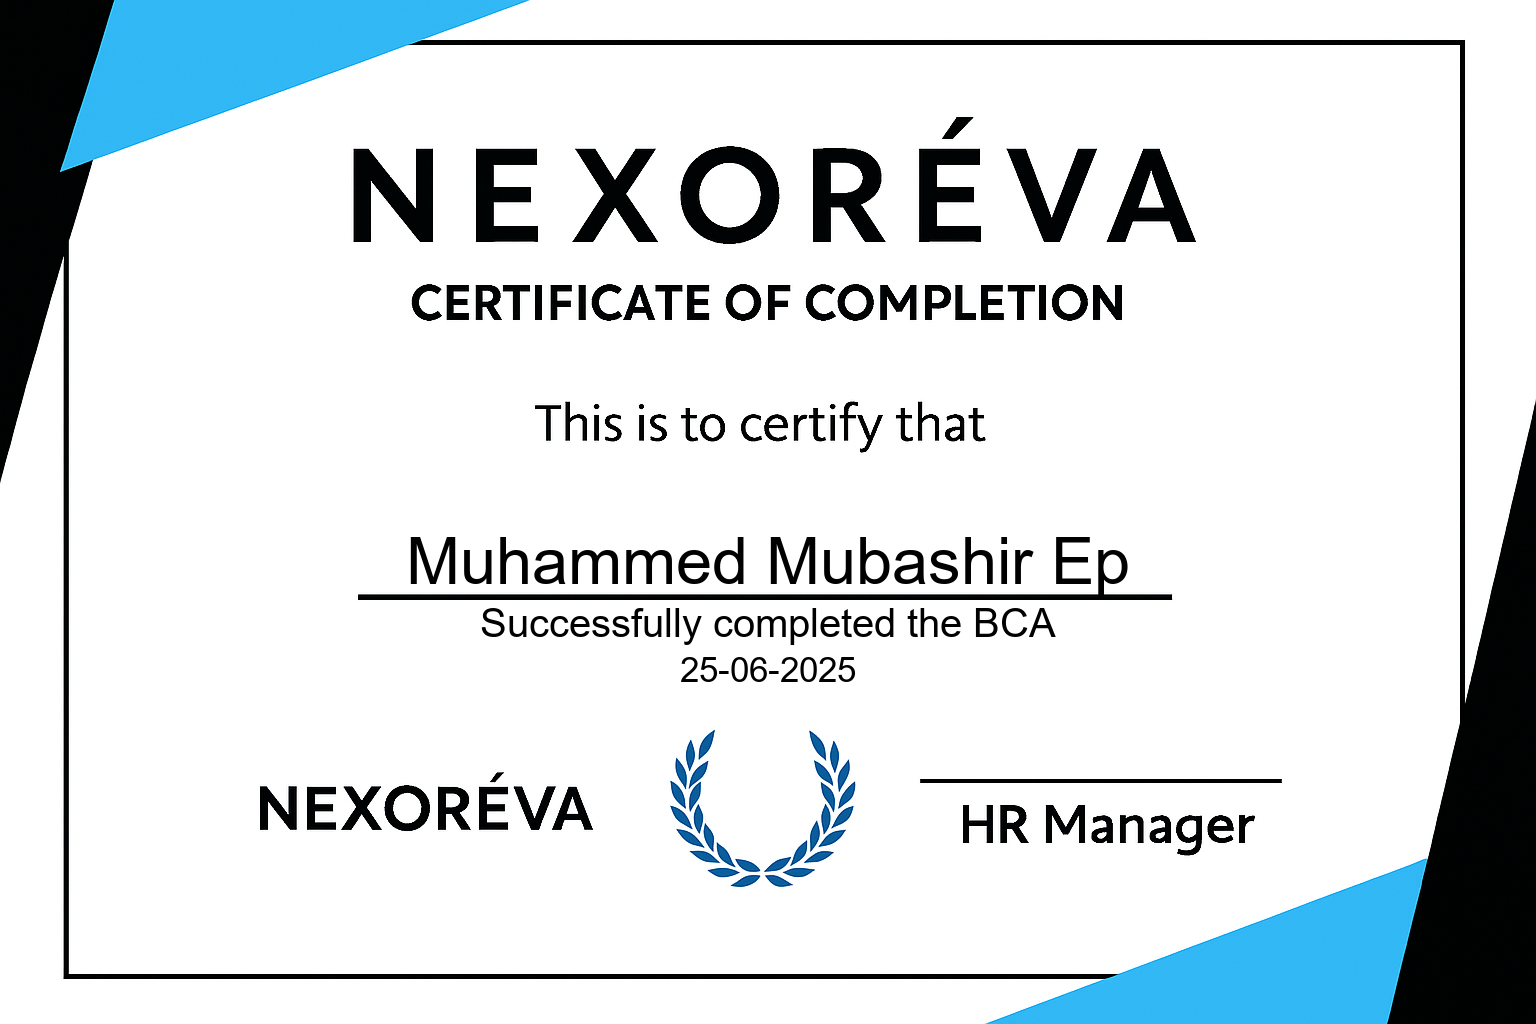
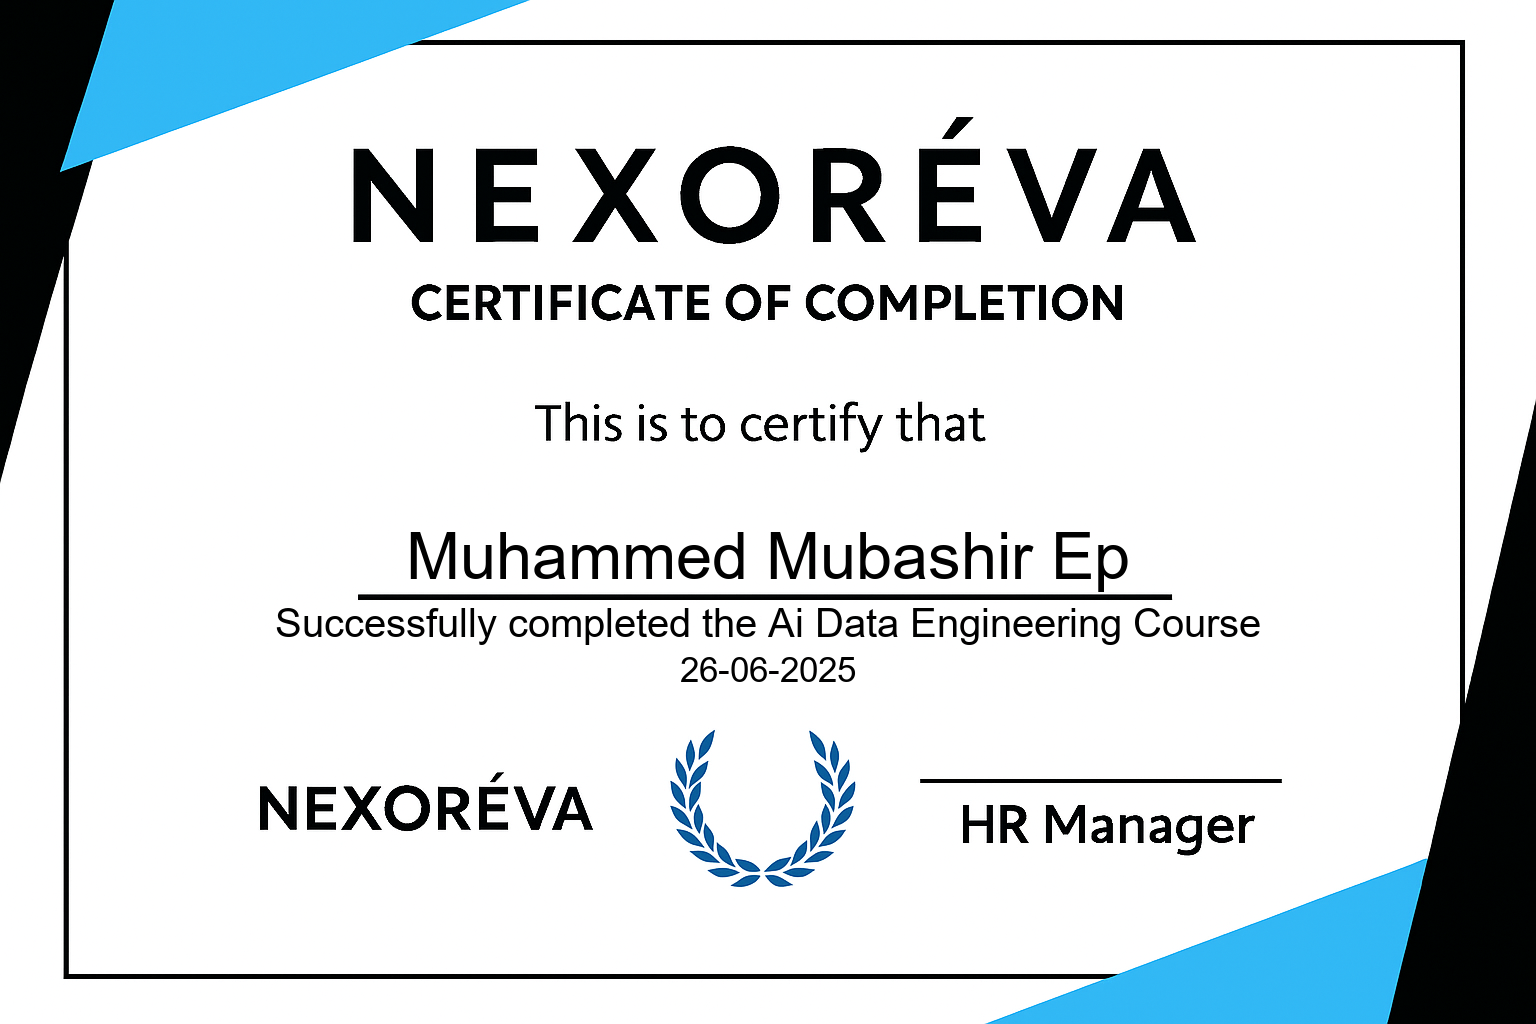
certificate module

Changed region(s): [[0.1562, 0.5, 0.8125, 0.6562]]

diff --git a/certificate/views.py b/certificate/views.py
@@ -50,10 +50,10 @@ def generate_certificate(request):
 
                 # Name on the big line
                 name_font = get_font(name, font_path, max_width=1000, max_size=65)
-                center_text(draw, name, name_font, y=525, image_width=image_width)  # Slightly higher
+                center_text(draw, name, name_font, y=520, image_width=image_width)  # Slightly higher
 
                 # Separated role text
-                role_text = f"Successfully completed the {role}"
+                role_text = f"Successfully completed the {role} Course"
                 role_font = get_font(role_text, font_path, max_width=1000, max_size=40)
                 center_text(draw, role_text, role_font, y=600, image_width=image_width)
 
